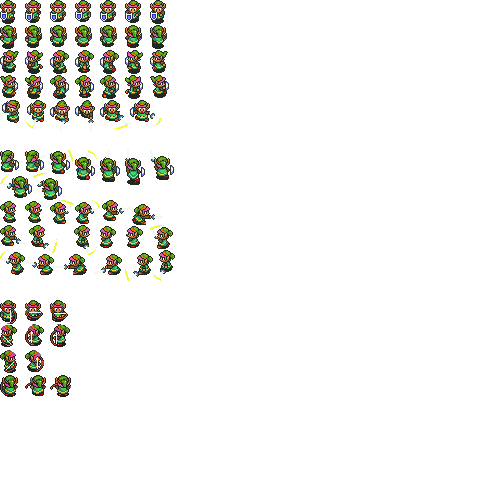
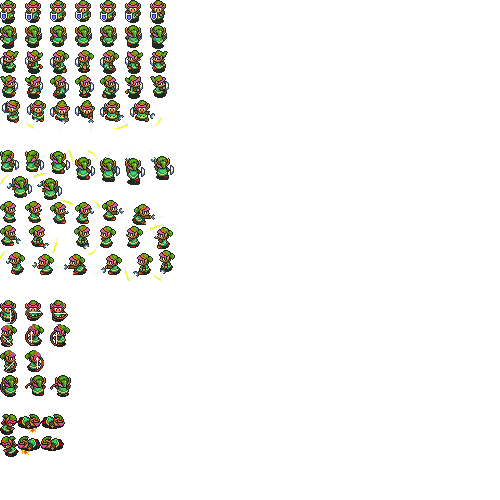
added death animation

Changed region(s): [[0.0, 0.81, 0.15, 0.93]]

diff --git a/zelda/link/DeathState.java b/zelda/link/DeathState.java
@@ -1,0 +1,67 @@
+package zelda.link;
+
+import zelda.karacter.Direction;
+
+/**
+ * @author Bas Harteveld
+ */
+public class DeathState extends LinkState
+{
+    private final String[] deathRightAnimation	= {"Link hit right", "Link death right 1", "Link death right 2"};
+    private final String[] deathLeftAnimation	= {"Link hit left", "Link death left 1", "Link death left 2"};
+    private final String[] deathLeft        	= {"Link death left 2"};
+    private final String[] deathRight         	= {"Link death right 2"};
+
+
+
+    public DeathState(Link link, Direction direction)
+    {
+        super(link);
+        name = "DeathState";
+
+        System.out.println("DeathState");
+
+        switch(direction)
+        {
+            case UP:
+                link.setAnimation(deathLeftAnimation);
+                link.setAnimationInterval(1000);
+                game.playMusic("sounds/killed.mp3", false);
+                break;
+
+            case DOWN:
+                link.setAnimation(deathRightAnimation);
+                link.setAnimationInterval(50);
+                game.playMusic("sounds/killed.mp3", false);
+                break;
+
+            case LEFT:
+                link.setAnimation(deathLeftAnimation);
+                link.setAnimationInterval(50);
+                game.playMusic("sounds/killed.mp3", false);
+                break;
+
+            case RIGHT:
+                link.setAnimation(deathRightAnimation);
+                link.setAnimationInterval(50);
+                game.playMusic("sounds/killed.mp3", false);
+                break;
+        }
+    }
+
+    @Override
+	public void handleAnimation()
+	{
+		int animationCounter = link.getAnimationCounter();
+
+		//System.out.println("Animation Counter is " + animationCounter);
+
+		//sword is done swinging revert back to former state
+		if (animationCounter == link.getAnimation().length)
+		{
+            link.setAnimation(deathLeft);
+        }
+    }
+
+    
+}

diff --git a/zelda/link/Link.java b/zelda/link/Link.java
@@ -21,8 +21,6 @@ public class Link extends Karacter
 	private long lastInput = System.currentTimeMillis();
     private long lastHit = System.currentTimeMillis();
 
-    private final String[] deathAnimation	= {"Link hit", "Link death 1", "Link death 2"};
-
     private int rupee = 0;
 
 	public Link(Game game, int x, int y)
@@ -112,11 +110,14 @@ public class Link extends Karacter
 		spriteLoc.put("Link bow up 2",          new Rectangle(25, 375, 21, 21));
 		spriteLoc.put("Link bow up 3",          new Rectangle(50, 375, 21, 22));
 
-        spriteLoc.put("Link hit",               new Rectangle(0, 0, 18, 21));
-		spriteLoc.put("Link death",             new Rectangle(18, 0, 24, 22));
-		spriteLoc.put("Link death 2",           new Rectangle(42, 0, 24, 15));
+        spriteLoc.put("Link hit right",         new Rectangle(0, 414, 17, 21));
+		spriteLoc.put("Link death right",       new Rectangle(17, 414, 27, 19));
+		spriteLoc.put("Link death right 2",     new Rectangle(41, 414, 27, 15));
 
-		
+        spriteLoc.put("Link hit left",          new Rectangle(0, 436, 17, 21));
+		spriteLoc.put("Link death left",        new Rectangle(17, 436, 23, 19));
+		spriteLoc.put("Link death left 2",      new Rectangle(40, 436, 24, 15));
+        
 		sprite.setSprite(spriteLoc.get("Link stand down"));
 
 		screenAdjust = false;
@@ -167,9 +168,10 @@ public class Link extends Karacter
 	protected void collision(GObject hitObject)
 	{
         if (health == 0)
-        {
+        {            
             game.playMusic("sounds/killed.mp3", false);
-            alive = false;
+            setState(new DeathState(this,direction.UP));
+            //alive = false;
         }
 
 		if (hitObject instanceof BlueSoldier)

diff --git a/zelda/enemy/WalkState.java b/zelda/enemy/WalkState.java
@@ -120,12 +120,7 @@ public class WalkState extends KaracterState
 
 		if (animationCounter == karacter.getAnimation().length)
 		{
-			karacter.setY(oldY);
-			karacter.setX(oldX);
-			karacter.setAnimationInterval(oldAnimationInterval);
-			//karacter.setCheckcollision(true);
-			//karacter.setState(new StandState(karacter));
-			//game.getScene().removeHitter(sword);
+			
 		}
 		else
 
@@ -147,36 +142,7 @@ public class WalkState extends KaracterState
 			{
 				switch (animationCounter)
 				{
-                    case 0:
-						karacter.setY(karacter.getY() - 1);
-						karacter.setX(karacter.getX() + 3);
-						break;
-
-					case 1:
-						karacter.setX(karacter.getX() - 2);
-						break;
-
-					case 2:
-						karacter.setY(karacter.getY() - 1);
-						karacter.setX(karacter.getX() - 5);
-						break;
-
-					case 3:
-						karacter.setX(karacter.getX() - 2);
-						break;
-
-					case 4:
-						karacter.setY(karacter.getY() + 2);
-						karacter.setX(karacter.getX() - 4);
-						break;
-
-					case 6:
-						karacter.setX(karacter.getX() + 1);
-						break;
-
-					case 8:
-						karacter.setX(karacter.getX() + 6);
-						break;
+                 
 				}
 			}
 			else if (dir == Direction.DOWN)

diff --git a/zelda/scene/ZeldaScene.java b/zelda/scene/ZeldaScene.java
@@ -147,7 +147,7 @@ public class ZeldaScene extends Scene
         Font f = new Font ("Serif", Font.BOLD, 12);
         g2.setFont (f);
         g2.drawString("-- LIFE --", game.getWidth() - 122, game.getHeight() / 9);
-        g2.drawString("" + link.getRupee(), 98, game.getHeight() / 7);
+        g2.drawString("" + link.getRupee(), 102, game.getHeight() / 7);
 	}
 }
 

diff --git a/zelda/engine/Game.java b/zelda/engine/Game.java
@@ -34,9 +34,9 @@ public class Game
 
 	public Game()
 	{
-		link = new Link(this, 800, 900);
+		link = new Link(this, 100, 100);
 //		scene = new HouseScene(this);
-        scene = new HyruleScene(this);
+        scene = new HouseScene(this);
 
 		scene.initScene();
 	}
